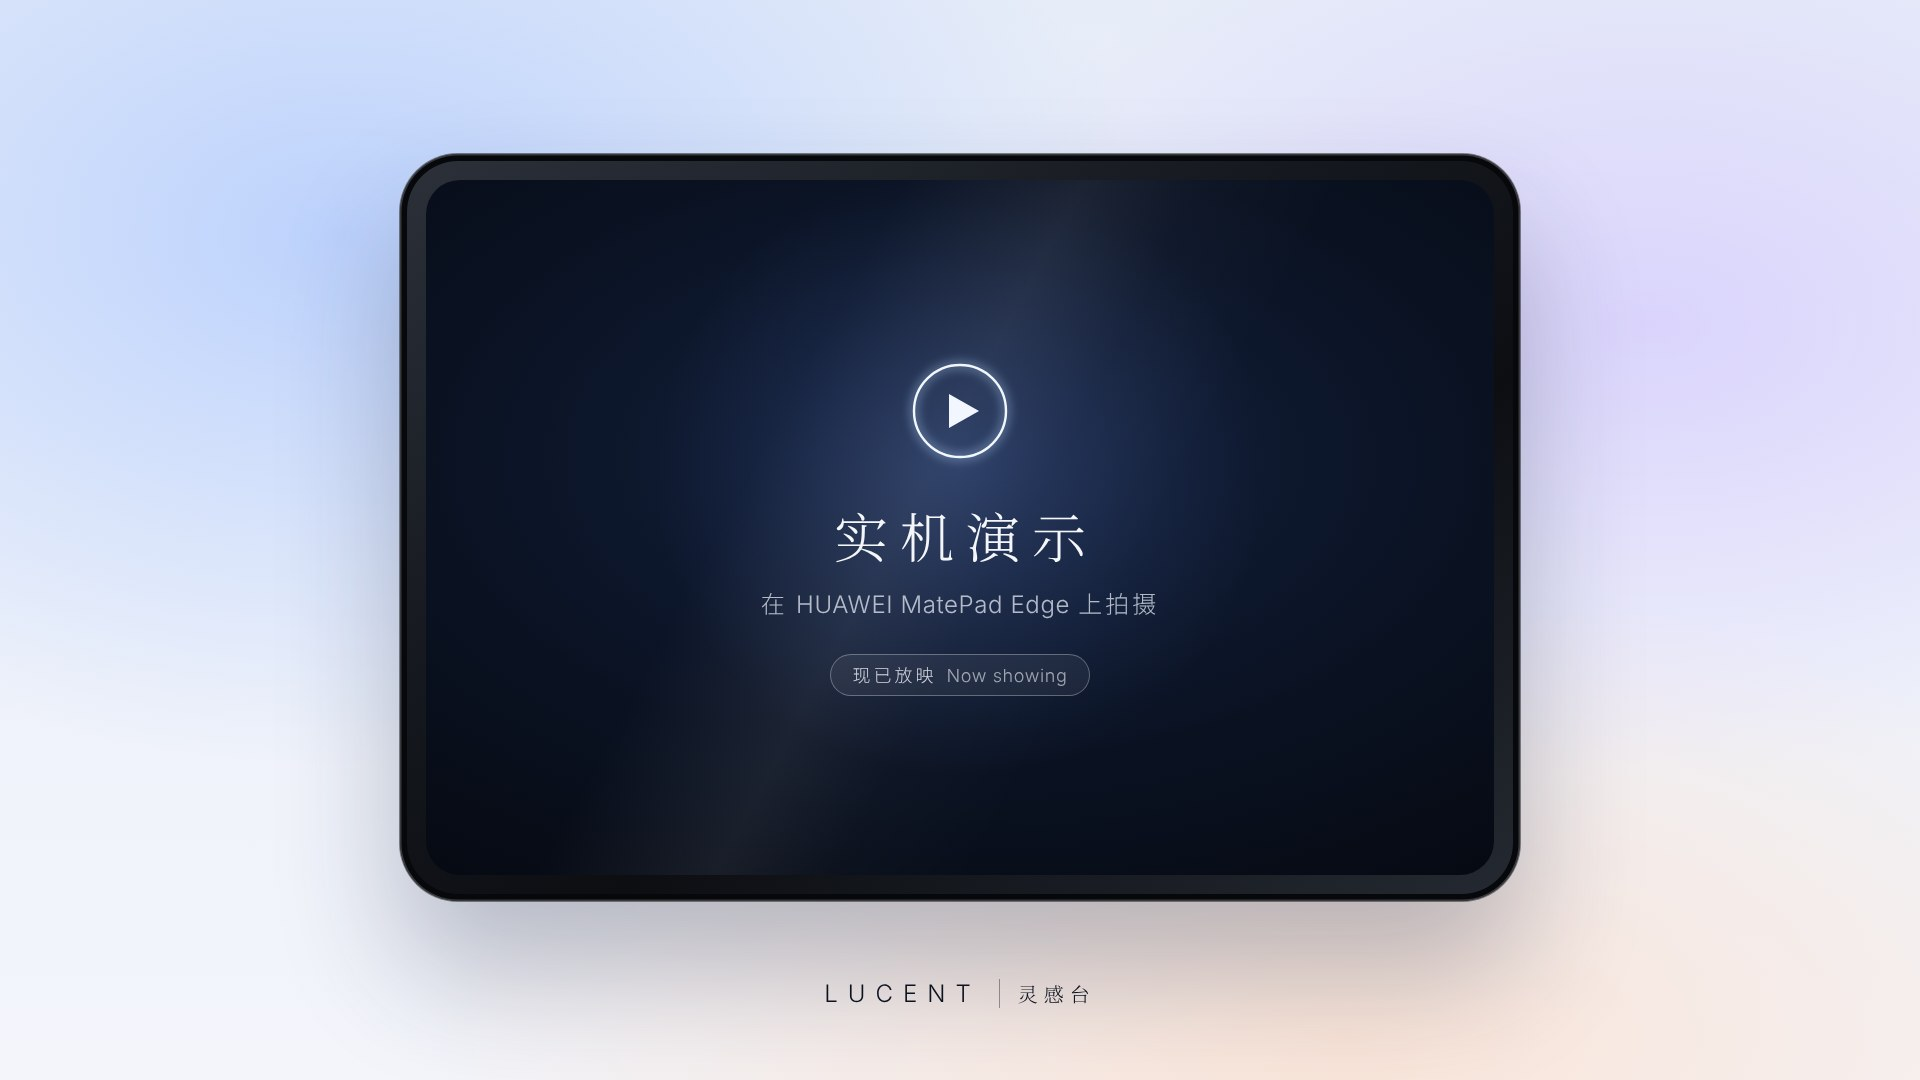
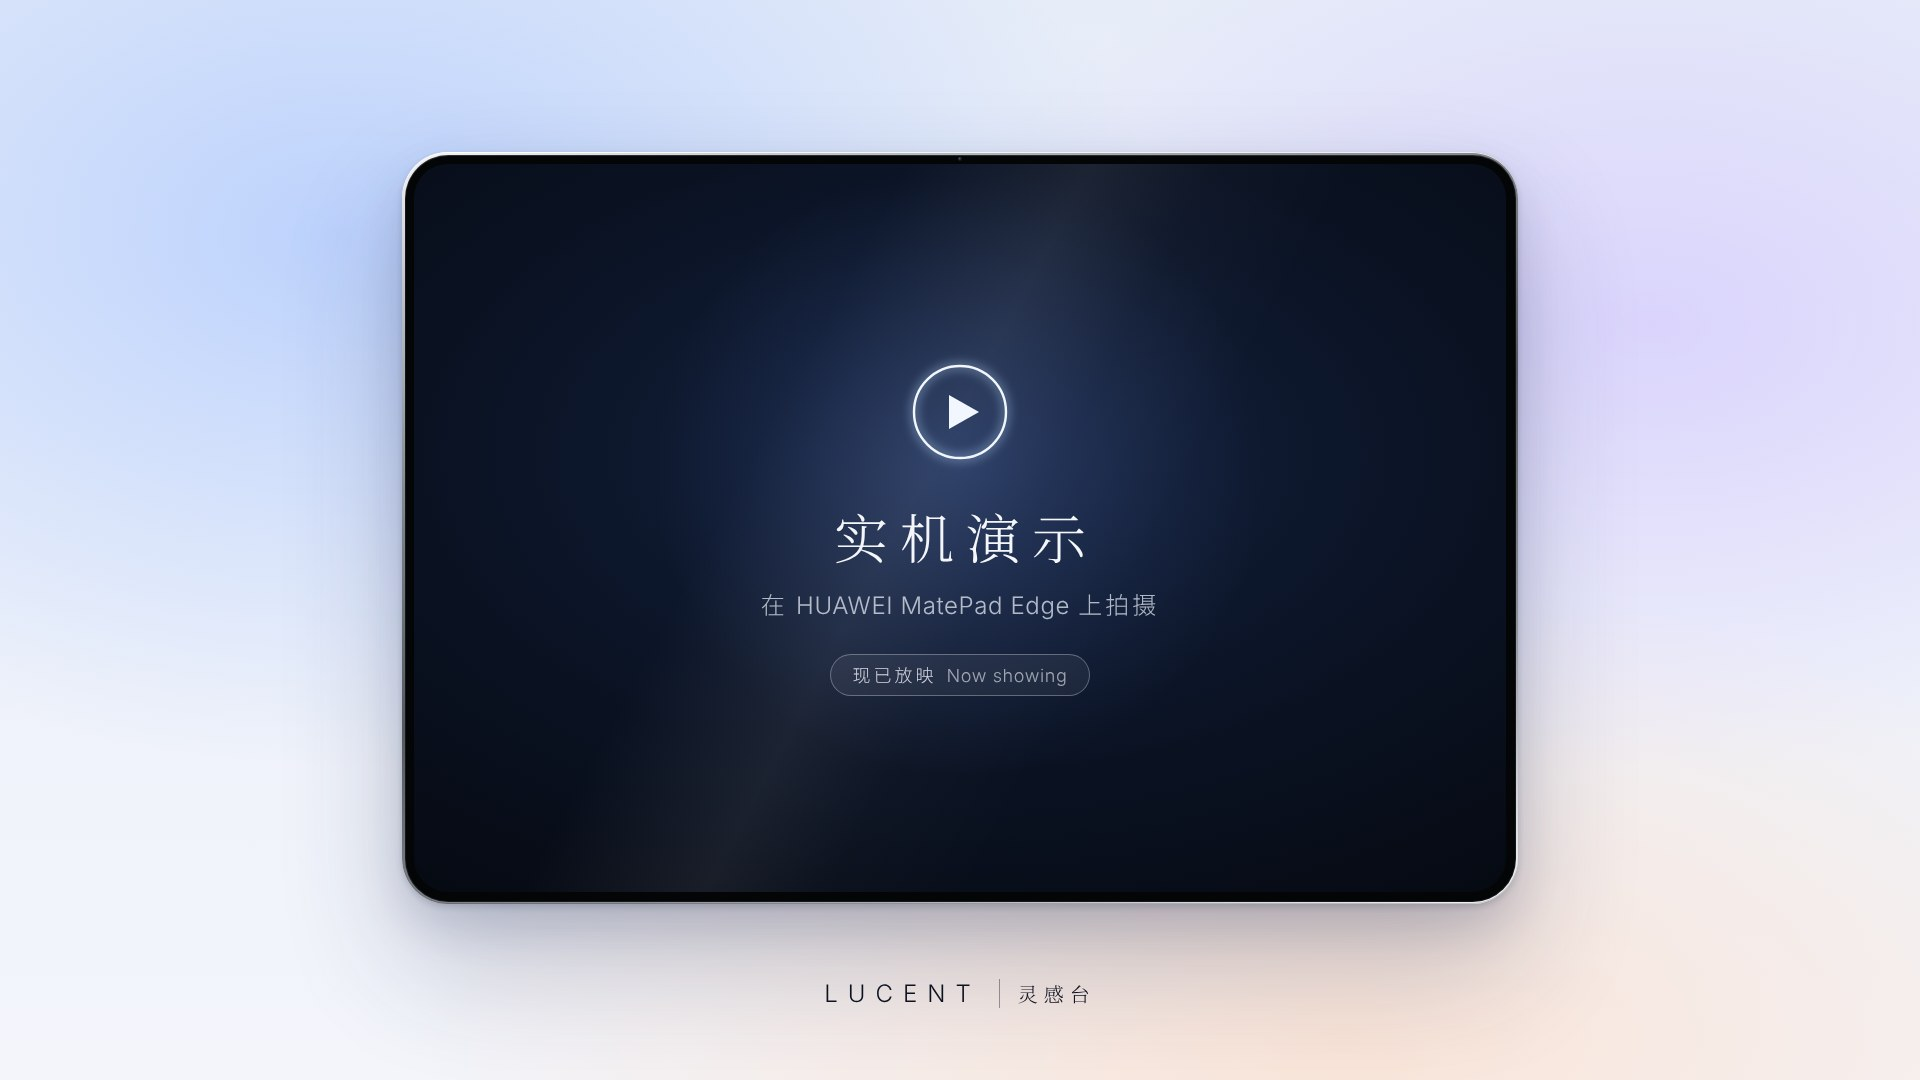
Showcase: draw the device as a nearly bezel-less tablet at its own size
The cover's tablet becomes a 3:2 screen behind a thin black glass border
in a narrow metal band, with concentric corners and a pinhole camera.
The edit keeps the device at its size with only a slight lean in, plays
the search and the page it opens at their own pace (no slow motion, no
close-up), drops the other close-ups, shows the search motions at 3x so
the blue-white lasers read, and marks the speed above the device.

diff --git a/scripts/film-media/slot.html b/scripts/film-media/slot.html
@@ -13,9 +13,17 @@
       radial-gradient(70% 60% at 70% 96%, rgba(255, 214, 186, .55), rgba(255, 214, 186, 0) 70%),
       linear-gradient(180deg, #e7edf8, #f3f5fb);
   }
-  .device { position: absolute; left: 400px; top: 154px; width: 1120px; height: 747px; border-radius: 58px; box-sizing: border-box; padding: 26px;
-    background: linear-gradient(150deg, #2c313a 0%, #15181e 38%, #0c0e12 62%, #252a32 100%);
-    box-shadow: inset 0 0 0 1.5px rgba(255, 255, 255, .2), inset 0 0 0 7px #07080b, 0 70px 120px rgba(30, 40, 70, .28), 0 0 0 1px rgba(0, 0, 0, .45); }
+  /* A tablet that is nearly all screen: a 3:2 screen behind a thin black glass border, held by a narrow
+     brushed-metal band; the radii are concentric, and a pinhole camera sits in the top border. */
+  .device { position: absolute; left: 402px; top: 152px; width: 1116px; height: 752px; box-sizing: border-box; padding: 2.5px; border-radius: 46px;
+    background: linear-gradient(162deg, #f4f5f7 0%, #b9bdc4 14%, #7b7f87 34%, #55595f 52%, #8b8f97 74%, #d9dce1 92%, #f2f3f5 100%);
+    box-shadow: 0 60px 120px rgba(32, 44, 82, .24), 0 22px 44px rgba(32, 44, 82, .14), 0 3px 6px rgba(18, 24, 38, .16); }
+  .device::before { content: ""; position: absolute; inset: 0; border-radius: 46px; pointer-events: none;
+    box-shadow: inset 0 1px 0 rgba(255, 255, 255, .85), inset 0 -1px 0 rgba(0, 0, 0, .18); }
+  .bezel { position: relative; width: 100%; height: 100%; box-sizing: border-box; padding: 9.5px; border-radius: 43.5px; background: #040506;
+    box-shadow: inset 0 0 0 1px rgba(255, 255, 255, .07), inset 0 1px 1px rgba(255, 255, 255, .1); }
+  .bezel::after { content: ""; position: absolute; left: 50%; top: 2.75px; width: 4px; height: 4px; margin-left: -2px; border-radius: 50%;
+    background: radial-gradient(circle at 35% 35%, #4a5366 0%, #151922 55%, #07080b 100%); }
   .screen { position: relative; width: 100%; height: 100%; border-radius: 34px; overflow: hidden;
     background: radial-gradient(90% 80% at 50% 40%, #13213f 0%, #0a1222 55%, #05080f 100%); }
   .screen::before { content: ""; position: absolute; inset: -20%; background: linear-gradient(118deg, rgba(255, 255, 255, 0) 38%, rgba(255, 255, 255, .07) 47%, rgba(255, 255, 255, .02) 53%, rgba(255, 255, 255, 0) 60%); }
@@ -39,13 +47,13 @@
 </style></head>
 <body>
   <script>if (location.search.indexOf("bare") >= 0) document.body.className = "bare";</script>
-  <div class="device"><div class="screen">
+  <div class="device"><div class="bezel"><div class="screen">
     <div class="center">
       <svg viewBox="-52 -52 104 104" aria-hidden="true"><circle class="glow" r="46"/><circle r="46"/><path d="M-11 -17 L19 0 L-11 17 Z"/></svg>
       <h1>实机演示</h1>
       <p>在 <b>HUAWEI MatePad Edge</b> 上拍摄</p>
       <div class="pill">现已放映<i>Now showing</i></div>
     </div>
-  </div></div>
+  </div></div></div>
   <div class="mark"><strong>LUCENT</strong><span>灵感台</span></div>
 </body></html>

diff --git a/scripts/device-edit.py b/scripts/device-edit.py
@@ -5,11 +5,11 @@
     python3 scripts/device-edit.py REC.mp4 --stills 3.3 7.3 28.5   # a few frames into verification/device/, to check
 
 The recording itself (a 3120 x 2080 screen recording from the HUAWEI MatePad Edge, 1:47, silent) is not kept in
-the repository. The edit opens on the cover the README shows (scripts/film-media/slot.html): its words leave,
-the recording comes up in the device's screen and the camera moves in until the screen nearly fills the frame.
-The quiet stretches run faster, each marked with its speed; three moments are framed closer (the search box as
-a query becomes a line of light, slowed to half speed, the Lueurs' settings, the wallpapers); at the end the
-camera moves back out to the device. The recorder's own indicator, top left, is filled in from around it (ffmpeg delogo).
+the repository. The edit opens on the cover the README shows (scripts/film-media/slot.html): its words leave and
+the recording comes up in the device's screen. The device keeps its size, with only a slight lean in, so its
+name stays under it throughout; the search plays at its own pace, the line of light and the page it opens
+included. The quiet stretches run faster, each marked with its speed above the device's top right corner. The
+recorder's own indicator, top left, is filled in from around it (ffmpeg delogo).
 
 The music is the concept film's score from the silence before the residents to the end (fusion2, rendered
 again with its sound effects muted), so the edit's 46 seconds were cut to its sections: the busiest
@@ -35,24 +35,25 @@ DELOGO = "delogo=x=132:y=8:w=196:h=92"    # the recorder's own indicator, top le
 
 # (source from, source to, speed): the cut, in order
 SEGMENTS = [
-    (0.4, 4.0, 1), (4.0, 6.6, 4), (6.6, 9.35, 1), (9.35, 9.8, 0.5), (9.8, 10.45, 1), (10.45, 12.45, 2),
-    (12.45, 17.4, 4), (17.4, 18.9, 1), (18.9, 27.8, 6), (27.8, 34.45, 4), (34.45, 40.14, 1.5), (40.14, 61.76, 4),
-    (61.76, 66.42, 4), (66.42, 67.8, 2), (67.8, 74.59, 1.5), (74.59, 76.49, 2), (76.49, 82.65, 3), (82.65, 83.83, 2),
-    (83.83, 87.24, 1.5), (87.24, 95.2, 3), (95.65, 102.11, 1),
+    (0.4, 4.0, 1), (4.0, 6.6, 4), (6.6, 10.45, 1), (10.45, 12.45, 2), (12.45, 17.4, 4), (17.4, 18.9, 1),
+    (18.9, 27.8, 3), (27.8, 34.45, 4), (34.45, 40.14, 1.5), (40.14, 61.76, 4), (61.76, 66.42, 4),
+    (66.42, 67.8, 2), (67.8, 74.59, 1.5), (74.59, 76.49, 2), (76.49, 82.65, 3), (82.65, 83.83, 2),
+    (83.83, 87.24, 1.5), (87.24, 95.2, 3), (96.68, 102.11, 1),
 ]
 TIMES = np.cumsum([0] + [(b - a) / s for a, b, s in SEGMENTS])   # where each segment starts in the edit
 DUR = float(TIMES[-1])
 
 # The cover (scripts/film-media/slot.html) is laid out at 1920 x 1080; the device's screen sits inside it.
-SCREEN = (426, 180, 1494, 875)
+DEVICE = (402, 152, 1518, 904)
+SCREEN = (414, 164, 1506, 892)            # 3:2, like the recording
 RADIUS = 34
-K = (SCREEN[2] - SCREEN[0]) / SW          # recording pixel -> layout pixel (the recording fills the width)
-OY = SCREEN[1] + ((SCREEN[3] - SCREEN[1]) - SH * K) / 2   # its top: a sliver above and below is cropped
+K = (SCREEN[2] - SCREEN[0]) / SW          # recording pixel -> layout pixel
+OY = SCREEN[1] + ((SCREEN[3] - SCREEN[1]) - SH * K) / 2
 S = W / 1920                              # layout pixel -> output pixel at zoom 1
-FULL = (1.49, 960.0, (SCREEN[1] + SCREEN[3]) / 2)        # the screen nearly fills the frame
 COVERED = (1.0, 960.0, 540.0)
-# where the speed mark sits: inside the screen's top right corner (at the full view), under the status icons
-MARK = (W / 2 + (SCREEN[2] - FULL[1]) * FULL[0] * S - 36, int(H / 2 + (SCREEN[1] - FULL[2]) * FULL[0] * S + 64))
+FULL = (1.08, 960.0, (DEVICE[1] + DEVICE[3]) / 2)        # a slight lean in: the device keeps its size and its name
+# where the speed mark sits: above the device, flush with its right edge
+MARK = (W / 2 + (DEVICE[2] - FULL[1]) * FULL[0] * S, int(H / 2 + (DEVICE[1] - FULL[2]) * FULL[0] * S) - 30 - 56)
 
 
 def ease(u):
@@ -65,20 +66,8 @@ def at(seg, src_t):
     return float(TIMES[seg] + (src_t - a) / s)
 
 
-def close(z, sx, sy):
-    """Framed closer on a point of the recording (in its pixels): z times the full view."""
-    return (FULL[0] * z, SCREEN[0] + sx * K, OY + sy * K)
-
-
 # The camera: (time, (zoom, centre x, centre y) in layout pixels); eased between keys, zoom in log space.
-CAMERA = [
-    (0.0, COVERED), (0.9, COVERED), (2.9, FULL),
-    (at(2, 7.0), FULL), (at(2, 8.0), close(1.75, 1990, 900)),           # the search box as the words go in
-    (at(4, 9.95), close(1.75, 1990, 900)), (at(4, 10.45), FULL),          # the line of light, slowed, then the page
-    (at(10, 35.0), FULL), (at(10, 36.2), close(1.2, 1560, 1000)), (at(10, 39.6), close(1.2, 1560, 1000)), (at(11, 41.0), FULL),
-    (at(14, 68.0), FULL), (at(14, 69.2), close(1.3, 1560, 860)), (at(14, 74.0), close(1.3, 1560, 860)), (at(15, 75.4), FULL),
-    (DUR - 6.4, FULL), (DUR - 3.2, COVERED), (DUR, COVERED),
-]
+CAMERA = [(0.0, COVERED), (0.9, COVERED), (3.4, FULL), (DUR - 6.4, FULL), (DUR - 3.2, COVERED), (DUR, COVERED)]
 
 
 def camera(t):

diff --git a/docs/VERIFICATION.md b/docs/VERIFICATION.md
@@ -11,7 +11,7 @@ Web edition 5.0.0. Last full run: **2026-10-18**, Node.js 22.22, Chromium 141 (P
 | Viewports | (browser suite) | 1560×1040 (the tablet), 1429×763, 1366×768 and 1280×720 (short laptop screens), 1024×768, 390×844 |
 | Repository subpath | (browser suite) | Assets and initialization under `/Lucent-Next/` |
 | Film score | `python3 scripts/film-score.py --report score.png` | The new fusion (`fusion2`): −16.0 LUFS integrated, true peak −1.2 dBTP (−1.0 in the AAC at 256 kb/s, −1.1 in the Opus), loudness range 10.8 LU; the 90th percentile of each scene's momentary loudness follows the energy written for it, from −11.2 LUFS under the name to −27.3 in the opening; no harmony or bass note falls outside the chord sounding under it; the opening stops dead at 3.55 s and the music is silent until 5 s; the stage's laser schedule and the cores struck beyond the slit match the film's generators bit for bit. Checked by measurement; its direction was set by the author, by ear, after six earlier versions |
-| On-device recording | `python3 scripts/device-edit.py <recording>` | 46.0 s at 2560 × 1440 and 60 fps, 27 MB; its music −15.9 LUFS, true peak −1.4 dBTP; frames checked at the cover, the slowed light line, each speed mark and the end. Its pace and framing were set to the author's brief: a light edit that keeps the rhythm |
+| On-device recording | `python3 scripts/device-edit.py <recording>` | 46.0 s at 2560 × 1440 and 60 fps, 27 MB; its music −15.9 LUFS, true peak −1.4 dBTP; frames checked at the cover, the search and the page it opens, each speed mark and the end. Its pace and framing were set to the author's brief: a light edit that keeps the rhythm |
 | Replaced shortcuts in stills | (patch from fresh renders) | `hero.jpg`, `glass-compare.jpg`, `og.jpg`, `about-preview.jpg`: every 8 × 8 or 16 × 16 block outside the two tiles keeps its JPEG coefficients (jpegtran `-drop`), so no pixel away from the tiles' edge moves; `gestures.zh.png` and `gestures.en.png`: no pixel outside the tiles changes. The unchanged tiles of the fresh renders matched the old stills to within 1.4 levels on average |
 
 ## Unit tests

diff --git a/docs/MAINTAINING.md b/docs/MAINTAINING.md
@@ -95,7 +95,7 @@ python3 scripts/device-edit.py SVID_20261019_173443_1.mp4        # the edit, its
 python3 scripts/device-edit.py SVID_20261019_173443_1.mp4 --stills 3.3 7.3 28.5   # a few frames to check
 ```
 
-It opens on the cover the README shows (`scripts/film-media/slot.html`, whose `?bare` variant leaves the screen empty), moves into the device's screen, runs the quiet stretches faster with their speed marked, frames three moments closer and moves back out to the device at the end; the recorder's own indicator is filled in from around it. Its music is the film's score from the silence before the residents to the end, rendered again with its sound effects muted, and the cut follows its sections. The cut, the speeds and the camera are tables at the top of the script.
+It opens on the cover the README shows (`scripts/film-media/slot.html`, whose `?bare` variant leaves the screen empty): the cover's words leave and the recording comes up in the device's 3:2 screen. The device keeps its size, with only a slight lean in, so its name stays under it; the search plays at its own pace, the line of light and the page it opens included, and the quiet stretches run faster with their speed marked above the device; the recorder's own indicator is filled in from around it. Its music is the film's score from the silence before the residents to the end, rendered again with its sound effects muted, and the cut follows its sections. The cut, the speeds and the camera are tables at the top of the script.
 
 The browser suite writes its own review captures to ignored `verification/screenshots/`; they are evidence for a run, not documentation.
 
